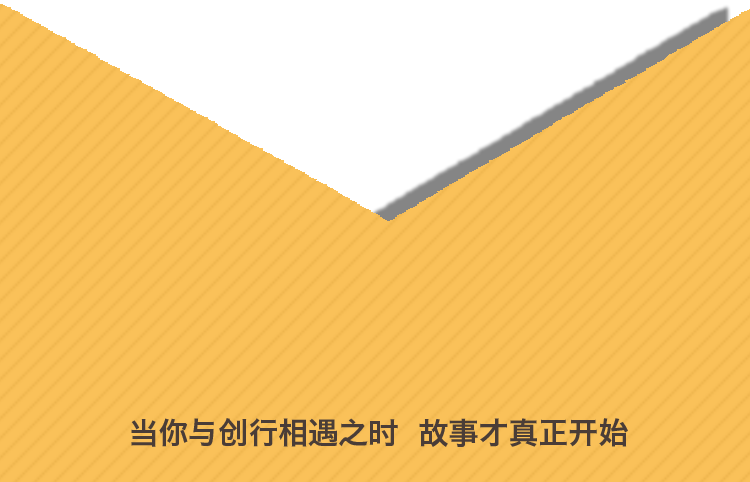
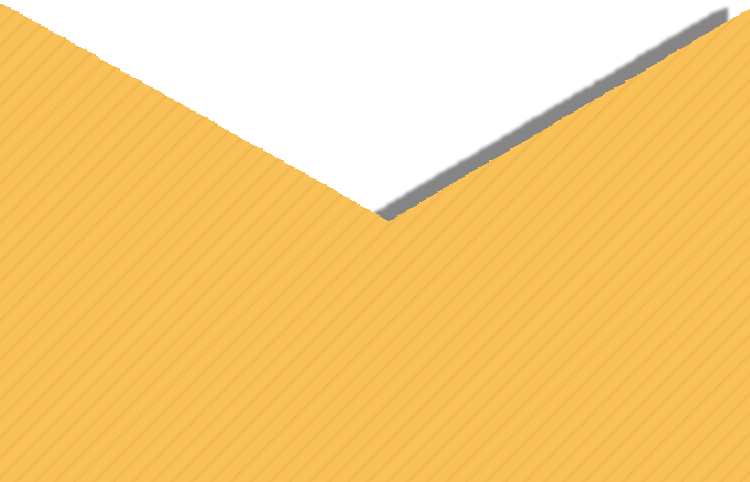
modify

Changed region(s): [[0.1533, 0.8714, 0.8587, 0.9336]]

diff --git a/web/templates/name.html b/web/templates/name.html
@@ -47,16 +47,19 @@
                 }
             </script>
         <div class="row" style="height:1vh"></div>
-        <div class="col-xs-6 col-xs-offset-6" style="padding:0px;">
-                <img src="{% static "images/logo.png" %}" class="img-responsive">
+        <div class="col-xs-7 col-xs-offset-5" style="padding:0px;">
+                <img src="{% static "images/logo.jpg" %}" class="img-responsive">
         </div>
     </div>
 
     <div class="container" style="padding:0px;width:100%;height:32vh;position:fixed;bottom:0px;background:url({% static "images/底边栏.jpg" %}); background-repeat:repeat;background-size:100% 100%;background-origin:content-box;">
-        <div class="col-xs-4 col-xs-offset-4" style="padding:5px;position:fixed;bottom:4.5vh;">
+        <div class="col-xs-4 col-xs-offset-4" style="padding:15px;position:fixed;bottom:3.5vh;">
             <div>
                 <img src="{% static "images/二维码.png" %}" class="img-responsive">
             </div>    
+        </div>
+        <div class="col-xs-8 col-xs-offset-2" style="padding:0px;position:fixed;bottom:0vh;" >
+            <p class="text-center"><small>当你与创行相遇之时,故事才真正开始</small></p>
         </div>
     </div> 
 </div>
